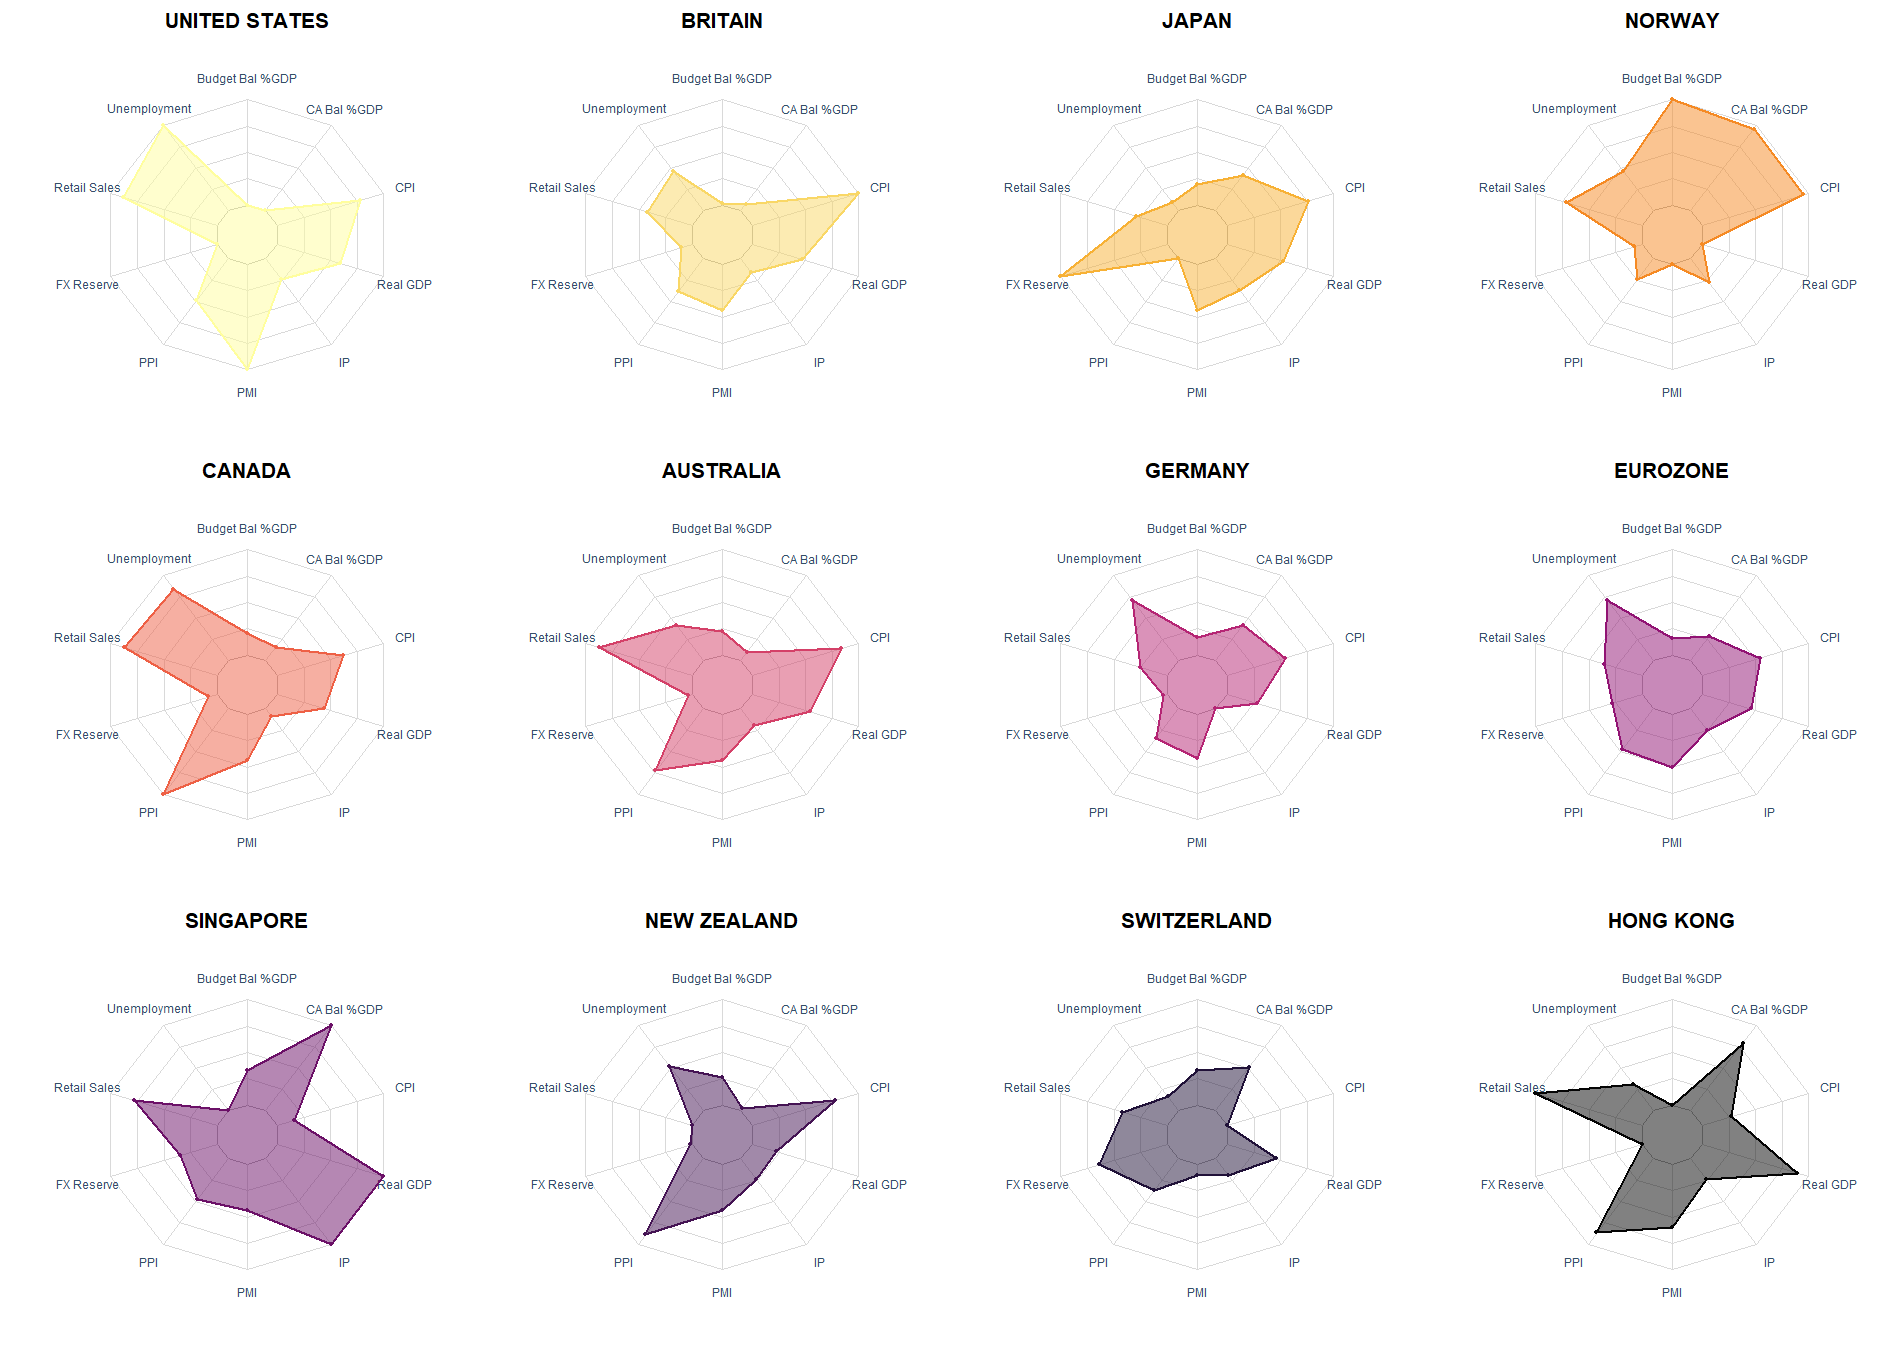
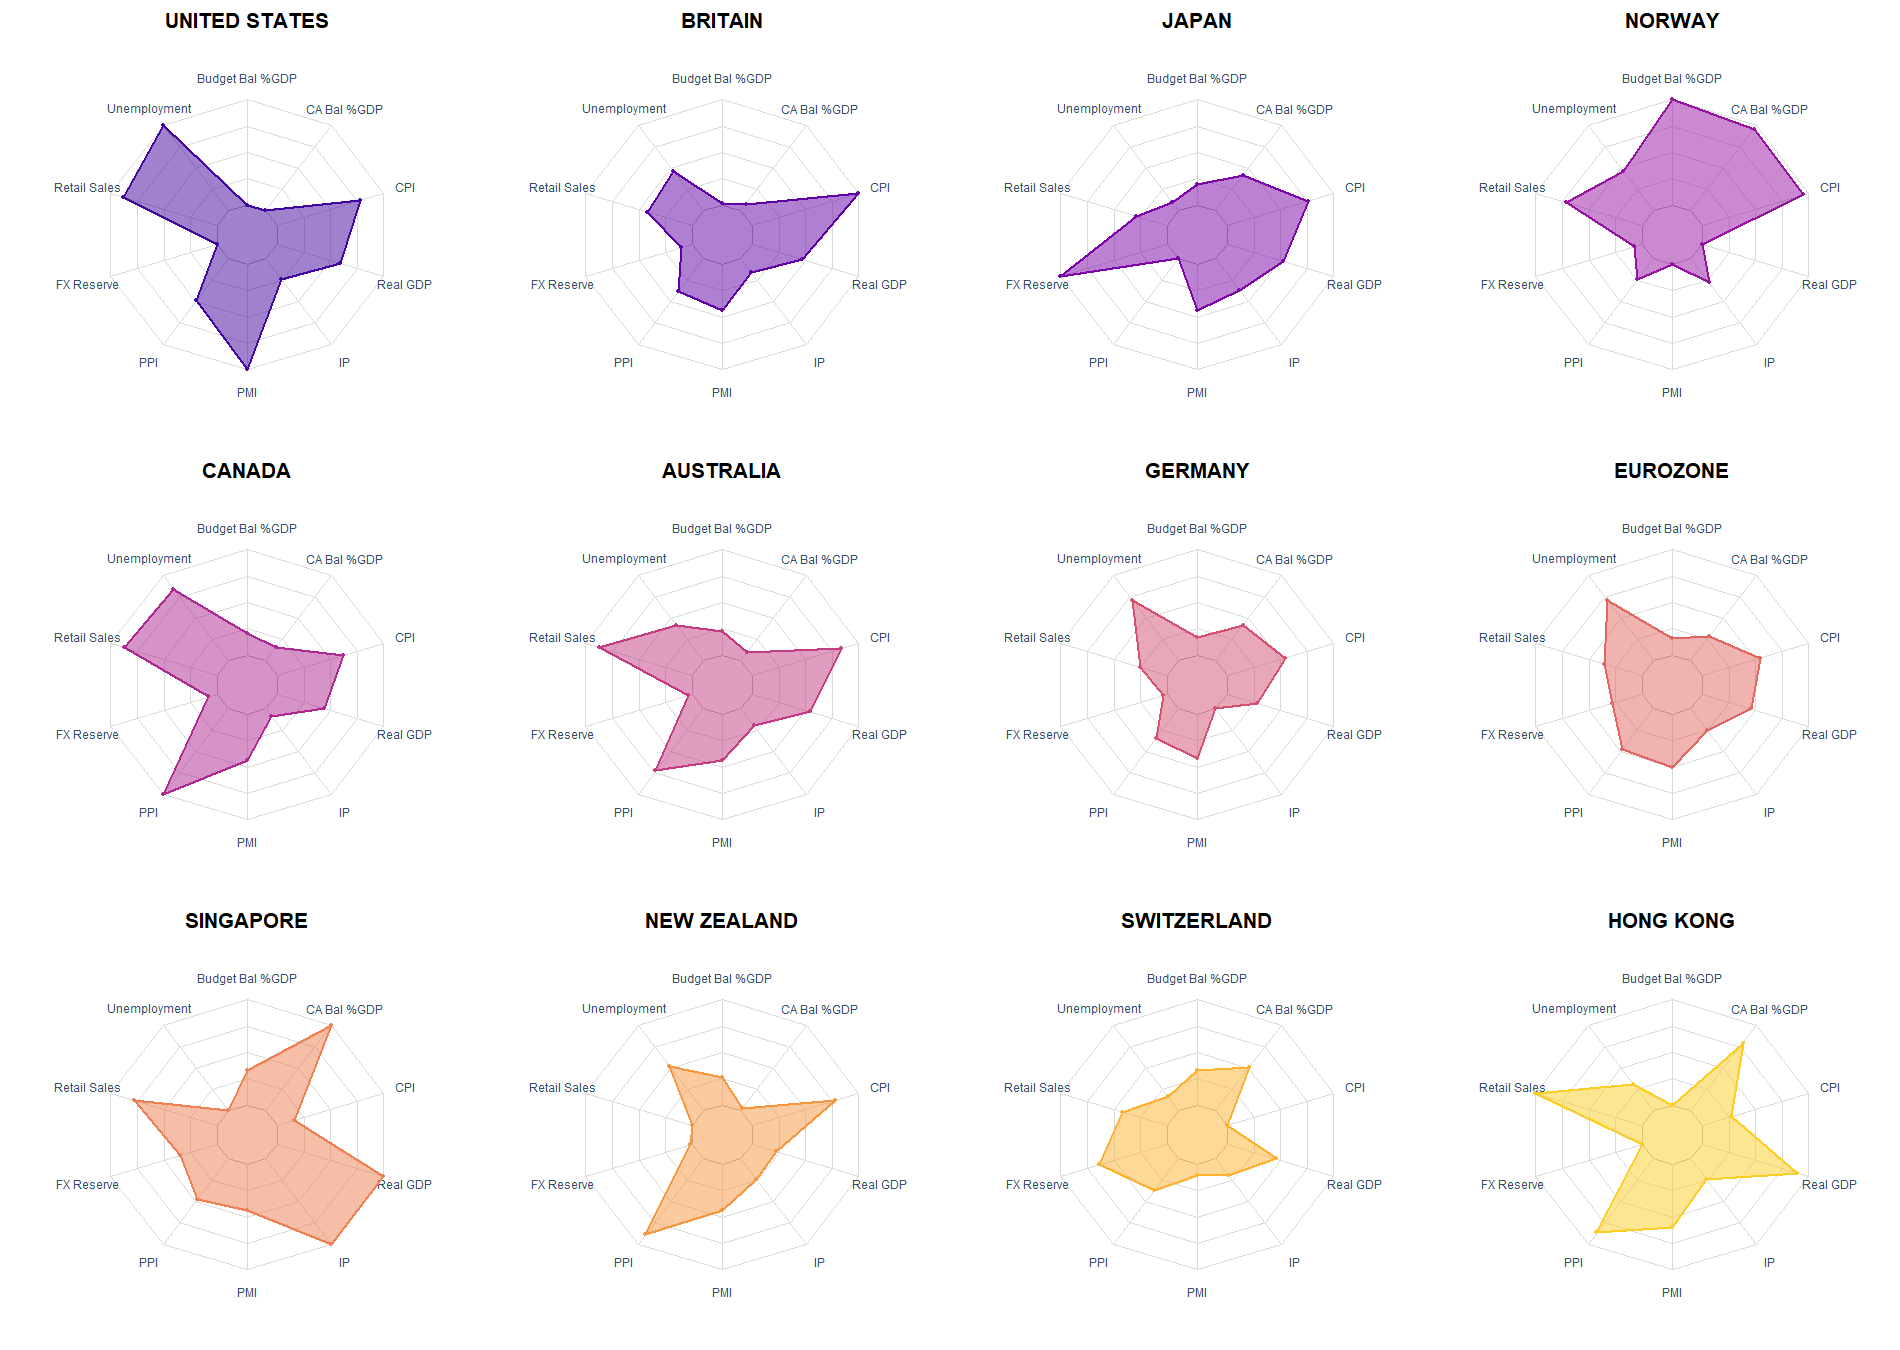
update eco screener page

diff --git a/R_Union/Codex_R/output/eco_report_20220614.html b/R_Union/Codex_R/output/eco_report_20220614.html
@@ -1,0 +1,1 @@
+<!doctype html><html><head><meta charset='utf-8'><title>ECO Screener Report</title><style>body{font-family:Segoe UI,Arial,sans-serif;background:#f6f8fb;color:#1f2933;margin:0}.wrap{max-width:1320px;margin:0 auto;padding:28px}h1{margin:0 0 6px;font-size:30px}.sub{color:#607080;margin-bottom:18px}.note{background:#fff7e6;border:1px solid #f0c36d;border-radius:8px;padding:10px 12px;margin:12px 0;color:#594214}.cards{display:grid;grid-template-columns:repeat(4,minmax(160px,1fr));gap:12px;margin:18px 0}.card{background:white;border:1px solid #dce3ec;border-radius:8px;padding:14px;box-shadow:0 8px 22px rgba(31,41,51,.05)}.label{font-size:12px;color:#607080;text-transform:uppercase}.value{font-size:22px;font-weight:750;margin-top:4px}.panel{background:white;border:1px solid #dce3ec;border-radius:8px;padding:14px;margin:14px 0;box-shadow:0 8px 22px rgba(31,41,51,.04)}img{max-width:100%;height:auto;border-radius:6px}table{border-collapse:collapse;width:100%;font-size:13px;background:white}th,td{border:1px solid #dce3ec;padding:7px;text-align:right}th:first-child,td:first-child{text-align:left}th{background:#edf2f7;position:sticky;top:0}.scroll{overflow:auto;max-height:620px;border:1px solid #dce3ec;border-radius:8px}</style></head><body><div class='wrap'><h1>ECO Screener Report</h1><div class='sub'>数据来自 C:/Users/PC/Desktop/R_git/R_Union/WIDE_ALLX，日期：2022-06-14</div><div class='cards'><div class='card'><div class='label'>Selected Date</div><div class='value'>2022-06-14</div></div><div class='card'><div class='label'>Top Score</div><div class='value'>SINGAPORE</div></div><div class='card'><div class='label'>Lowest Score</div><div class='value'>HONG KONG</div></div><div class='card'><div class='label'>Countries</div><div class='value'>12</div></div></div><div class='note'>Radar 图为了让每个国家形状完整，缺失指标用该指标的中位水平补齐；表格里仍然保留原始 NA。</div><h2>Scoreboard Heatmap</h2><div class='panel'><img src='eco_heatmap_20220614.png'></div><h2>Indicator Bars</h2><div class='panel'><img src='eco_bars_20220614.png'></div><h2>All Countries Radar</h2><div class='panel'><img src='eco_radar_20220614.png'></div><h2>Score Table</h2><div class='scroll'><table><thead><tr><th>Country</th><th>Budget Bal %GDP</th><th>CA Bal %GDP</th><th>CPI</th><th>Real GDP</th><th>IP</th><th>PMI</th><th>PPI</th><th>FX Reserve</th><th>Retail Sales</th><th>Unemployment</th><th>Total_Score</th></tr></thead><tbody><tr><td>SINGAPORE</td><td> -2.00</td><td>18.51</td><td>5.6</td><td> 4.300</td><td>11.10</td><td>NA</td><td>NA</td><td> 345219.10</td><td>14.10</td><td>2.3</td><td>0.5389928</td></tr><tr><td>EUROZONE</td><td> -4.07</td><td> 2.09</td><td>8.1</td><td> 5.600</td><td> 3.10</td><td>NA</td><td> 0.50</td><td> 329614.00</td><td> 1.80</td><td>6.8</td><td>0.4909376</td></tr><tr><td>SWITZERLAND</td><td> -0.31</td><td> 7.18</td><td>2.9</td><td> 5.400</td><td> 7.10</td><td>59.80</td><td> 4.40</td><td> 925451.42</td><td>-2.10</td><td>2.2</td><td>0.4836323</td></tr><tr><td>NORWAY</td><td>  8.86</td><td>19.94</td><td>5.7</td><td> 2.700</td><td> 2.80</td><td>55.65</td><td>64.70</td><td>  72592.70</td><td>-9.30</td><td>3.8</td><td>0.4822867</td></tr><tr><td>CANADA</td><td>-12.32</td><td> 0.17</td><td>7.7</td><td> 4.604</td><td> 6.37</td><td>NA</td><td>15.59</td><td>  80218.00</td><td>15.60</td><td>5.2</td><td>0.4791749</td></tr><tr><td>UNITED STATES</td><td> -6.89</td><td>-3.85</td><td>8.6</td><td> 4.000</td><td> 3.81</td><td>NA</td><td> 0.90</td><td>    155.26</td><td> 9.00</td><td>7.1</td><td>0.4642973</td></tr><tr><td>GERMANY</td><td> -3.20</td><td> 6.55</td><td>6.9</td><td> 3.700</td><td>-1.60</td><td>NA</td><td>31.10</td><td>  37474.00</td><td>-0.40</td><td>5.0</td><td>0.4258941</td></tr><tr><td>AUSTRALIA</td><td> -3.98</td><td> 1.68</td><td>5.1</td><td> 3.600</td><td>-1.30</td><td>NA</td><td> 2.50</td><td>  35095.00</td><td>10.00</td><td>3.9</td><td>0.3608622</td></tr><tr><td>BRITAIN</td><td> -5.18</td><td>-1.96</td><td>9.1</td><td>11.400</td><td>-3.50</td><td>NA</td><td>-1.30</td><td> 112609.00</td><td>-6.40</td><td>3.7</td><td>0.3587729</td></tr><tr><td>JAPAN</td><td> -6.15</td><td> 3.63</td><td>2.5</td><td> 0.900</td><td>-2.70</td><td>NA</td><td>-5.50</td><td>1204539.00</td><td> 3.70</td><td>2.6</td><td>0.3318023</td></tr><tr><td>NEW ZEALAND</td><td> -3.47</td><td>-6.60</td><td>6.9</td><td> 0.500</td><td>NA</td><td>NA</td><td> 8.75</td><td>  11076.00</td><td>-3.05</td><td>3.3</td><td>0.3050633</td></tr><tr><td>HONG KONG</td><td>  0.01</td><td>12.14</td><td>1.2</td><td>-4.000</td><td>-1.30</td><td>NA</td><td> 2.30</td><td>    465.00</td><td>-1.60</td><td>5.1</td><td>0.2951384</td></tr></tbody></table></div></div></body></html>

diff --git a/R_Union/Codex_R/output/eco_report_20220629.html b/R_Union/Codex_R/output/eco_report_20220629.html
@@ -1,0 +1,1 @@
+<!doctype html><html><head><meta charset='utf-8'><title>ECO Screener Report</title><style>body{font-family:Segoe UI,Arial,sans-serif;background:#f6f8fb;color:#1f2933;margin:0}.wrap{max-width:1320px;margin:0 auto;padding:28px}h1{margin:0 0 6px;font-size:30px}.sub{color:#607080;margin-bottom:18px}.note{background:#fff7e6;border:1px solid #f0c36d;border-radius:8px;padding:10px 12px;margin:12px 0;color:#594214}.cards{display:grid;grid-template-columns:repeat(4,minmax(160px,1fr));gap:12px;margin:18px 0}.card{background:white;border:1px solid #dce3ec;border-radius:8px;padding:14px;box-shadow:0 8px 22px rgba(31,41,51,.05)}.label{font-size:12px;color:#607080;text-transform:uppercase}.value{font-size:22px;font-weight:750;margin-top:4px}.panel{background:white;border:1px solid #dce3ec;border-radius:8px;padding:14px;margin:14px 0;box-shadow:0 8px 22px rgba(31,41,51,.04)}img{max-width:100%;height:auto;border-radius:6px}table{border-collapse:collapse;width:100%;font-size:13px;background:white}th,td{border:1px solid #dce3ec;padding:7px;text-align:right}th:first-child,td:first-child{text-align:left}th{background:#edf2f7;position:sticky;top:0}.scroll{overflow:auto;max-height:620px;border:1px solid #dce3ec;border-radius:8px}</style></head><body><div class='wrap'><h1>ECO Screener Report</h1><div class='sub'>数据来自 C:/Users/PC/Desktop/R_git/R_Union/WIDE_ALLX，日期：2022-06-29</div><div class='cards'><div class='card'><div class='label'>Selected Date</div><div class='value'>2022-06-29</div></div><div class='card'><div class='label'>Top Score</div><div class='value'>SINGAPORE</div></div><div class='card'><div class='label'>Lowest Score</div><div class='value'>HONG KONG</div></div><div class='card'><div class='label'>Countries</div><div class='value'>12</div></div></div><div class='note'>Radar 图为了让每个国家形状完整，缺失指标用该指标的中位水平补齐；表格里仍然保留原始 NA。</div><h2>Scoreboard Heatmap</h2><div class='panel'><img src='eco_heatmap_20220629.png'></div><h2>Indicator Bars</h2><div class='panel'><img src='eco_bars_20220629.png'></div><h2>All Countries Radar</h2><div class='panel'><img src='eco_radar_20220629.png'></div><h2>Score Table</h2><div class='scroll'><table><thead><tr><th>Country</th><th>Budget Bal %GDP</th><th>CA Bal %GDP</th><th>CPI</th><th>Real GDP</th><th>IP</th><th>PMI</th><th>PPI</th><th>FX Reserve</th><th>Retail Sales</th><th>Unemployment</th><th>Total_Score</th></tr></thead><tbody><tr><td>SINGAPORE</td><td> -2.00</td><td>18.51</td><td>5.6</td><td> 4.300</td><td>11.10</td><td>NA</td><td>NA</td><td> 345219.10</td><td>14.10</td><td>2.3</td><td>0.5389928</td></tr><tr><td>EUROZONE</td><td> -4.07</td><td> 2.09</td><td>8.1</td><td> 5.600</td><td> 3.10</td><td>NA</td><td> 0.50</td><td> 329614.00</td><td> 1.80</td><td>6.8</td><td>0.4909376</td></tr><tr><td>SWITZERLAND</td><td> -0.31</td><td> 7.18</td><td>2.9</td><td> 5.400</td><td> 7.10</td><td>59.80</td><td> 4.40</td><td> 925451.42</td><td>-2.10</td><td>2.2</td><td>0.4836323</td></tr><tr><td>NORWAY</td><td>  8.86</td><td>19.94</td><td>5.7</td><td> 2.700</td><td> 2.80</td><td>55.65</td><td>64.70</td><td>  72592.70</td><td>-9.30</td><td>3.8</td><td>0.4822867</td></tr><tr><td>CANADA</td><td>-12.32</td><td> 0.17</td><td>7.7</td><td> 4.604</td><td> 6.37</td><td>NA</td><td>15.59</td><td>  80218.00</td><td>15.60</td><td>5.2</td><td>0.4791749</td></tr><tr><td>UNITED STATES</td><td> -6.89</td><td>-3.85</td><td>8.6</td><td> 4.000</td><td> 3.81</td><td>NA</td><td> 0.90</td><td>    155.26</td><td> 9.00</td><td>7.1</td><td>0.4642973</td></tr><tr><td>GERMANY</td><td> -3.20</td><td> 6.55</td><td>6.9</td><td> 3.700</td><td>-1.60</td><td>NA</td><td>31.10</td><td>  37474.00</td><td>-0.40</td><td>5.0</td><td>0.4258941</td></tr><tr><td>AUSTRALIA</td><td> -3.98</td><td> 1.68</td><td>5.1</td><td> 3.600</td><td>-1.30</td><td>NA</td><td> 2.50</td><td>  35095.00</td><td>10.00</td><td>3.9</td><td>0.3608622</td></tr><tr><td>BRITAIN</td><td> -5.18</td><td>-1.96</td><td>9.1</td><td>11.400</td><td>-3.50</td><td>NA</td><td>-1.30</td><td> 112609.00</td><td>-6.40</td><td>3.7</td><td>0.3587729</td></tr><tr><td>JAPAN</td><td> -6.15</td><td> 3.63</td><td>2.5</td><td> 0.900</td><td>-2.70</td><td>NA</td><td>-5.50</td><td>1204539.00</td><td> 3.70</td><td>2.6</td><td>0.3318023</td></tr><tr><td>NEW ZEALAND</td><td> -3.47</td><td>-6.60</td><td>6.9</td><td> 0.500</td><td>NA</td><td>NA</td><td> 8.75</td><td>  11076.00</td><td>-3.05</td><td>3.3</td><td>0.3050633</td></tr><tr><td>HONG KONG</td><td>  0.01</td><td>12.14</td><td>1.2</td><td>-4.000</td><td>-1.30</td><td>NA</td><td> 2.30</td><td>    465.00</td><td>-1.60</td><td>5.1</td><td>0.2951384</td></tr></tbody></table></div></div></body></html>

diff --git a/R_Union/Codex_R/output/eco_report_20221115.html b/R_Union/Codex_R/output/eco_report_20221115.html
@@ -1,0 +1,1 @@
+<!doctype html><html><head><meta charset='utf-8'><title>ECO Screener Report</title><style>body{font-family:Segoe UI,Arial,sans-serif;background:#f6f8fb;color:#1f2933;margin:0}.wrap{max-width:1320px;margin:0 auto;padding:28px}h1{margin:0 0 6px;font-size:30px}.sub{color:#607080;margin-bottom:18px}.note{background:#fff7e6;border:1px solid #f0c36d;border-radius:8px;padding:10px 12px;margin:12px 0;color:#594214}.cards{display:grid;grid-template-columns:repeat(4,minmax(160px,1fr));gap:12px;margin:18px 0}.card{background:white;border:1px solid #dce3ec;border-radius:8px;padding:14px;box-shadow:0 8px 22px rgba(31,41,51,.05)}.label{font-size:12px;color:#607080;text-transform:uppercase}.value{font-size:22px;font-weight:750;margin-top:4px}.panel{background:white;border:1px solid #dce3ec;border-radius:8px;padding:14px;margin:14px 0;box-shadow:0 8px 22px rgba(31,41,51,.04)}img{max-width:100%;height:auto;border-radius:6px}table{border-collapse:collapse;width:100%;font-size:13px;background:white}th,td{border:1px solid #dce3ec;padding:7px;text-align:right}th:first-child,td:first-child{text-align:left}th{background:#edf2f7;position:sticky;top:0}.scroll{overflow:auto;max-height:620px;border:1px solid #dce3ec;border-radius:8px}</style></head><body><div class='wrap'><h1>ECO Screener Report</h1><div class='sub'>数据来自 C:/Users/PC/Desktop/R_git/R_Union/WIDE_ALLX，日期：2022-11-15</div><div class='cards'><div class='card'><div class='label'>Selected Date</div><div class='value'>2022-11-15</div></div><div class='card'><div class='label'>Top Score</div><div class='value'>NORWAY</div></div><div class='card'><div class='label'>Lowest Score</div><div class='value'>HONG KONG</div></div><div class='card'><div class='label'>Countries</div><div class='value'>12</div></div></div><div class='note'>Radar 图为了让每个国家形状完整，缺失指标用该指标的中位水平补齐；表格里仍然保留原始 NA。</div><h2>Scoreboard Heatmap</h2><div class='panel'><img src='eco_heatmap_20221115.png'></div><h2>Indicator Bars</h2><div class='panel'><img src='eco_bars_20221115.png'></div><h2>All Countries Radar</h2><div class='panel'><img src='eco_radar_20221115.png'></div><h2>Score Table</h2><div class='scroll'><table><thead><tr><th>Country</th><th>Budget Bal %GDP</th><th>CA Bal %GDP</th><th>CPI</th><th>Real GDP</th><th>IP</th><th>PMI</th><th>PPI</th><th>FX Reserve</th><th>Retail Sales</th><th>Unemployment</th><th>Total_Score</th></tr></thead><tbody><tr><td>NORWAY</td><td>  8.86</td><td>29.34</td><td> 7.5</td><td> 3.200</td><td> 0.20</td><td>52.45</td><td>19.80</td><td>  70638.500</td><td>-6.00</td><td>3.1</td><td>0.5265009</td></tr><tr><td>SWITZERLAND</td><td> -0.31</td><td> 8.22</td><td> 3.0</td><td> 1.800</td><td> 6.00</td><td>55.40</td><td> 3.45</td><td> 816883.140</td><td>-2.40</td><td>2.0</td><td>0.4867219</td></tr><tr><td>UNITED STATES</td><td> -5.24</td><td>-3.76</td><td> 7.7</td><td> 2.300</td><td> 3.08</td><td>NA</td><td> 0.30</td><td>     67.838</td><td> 8.10</td><td>6.7</td><td>0.4632280</td></tr><tr><td>EUROZONE</td><td> -3.05</td><td> 0.15</td><td>10.6</td><td> 2.900</td><td> 3.30</td><td>46.40</td><td>-2.00</td><td> 325199.000</td><td>-2.60</td><td>6.7</td><td>0.4618169</td></tr><tr><td>SINGAPORE</td><td> -0.82</td><td>18.41</td><td> 6.8</td><td> 4.500</td><td>-0.60</td><td>NA</td><td>NA</td><td> 282284.400</td><td> 7.50</td><td>2.1</td><td>0.4371782</td></tr><tr><td>CANADA</td><td>-12.32</td><td> 0.03</td><td> 6.9</td><td> 4.248</td><td> 1.82</td><td>NA</td><td> 9.86</td><td>  77353.000</td><td> 6.10</td><td>5.1</td><td>0.4194960</td></tr><tr><td>AUSTRALIA</td><td> -3.98</td><td> 0.30</td><td> 7.3</td><td> 6.100</td><td>-1.30</td><td>NA</td><td> 2.50</td><td>  36113.000</td><td>12.50</td><td>3.4</td><td>0.4148951</td></tr><tr><td>GERMANY</td><td> -3.20</td><td> 4.40</td><td> 8.8</td><td> 1.700</td><td>-0.70</td><td>45.10</td><td>31.70</td><td>  36800.000</td><td>-5.10</td><td>5.5</td><td>0.4086696</td></tr><tr><td>JAPAN</td><td> -6.15</td><td> 2.33</td><td> 3.7</td><td> 1.300</td><td> 3.10</td><td>NA</td><td>-5.50</td><td>1078348.000</td><td> 4.40</td><td>2.6</td><td>0.4022614</td></tr><tr><td>NEW ZEALAND</td><td> -3.47</td><td>-8.50</td><td> 7.2</td><td> 8.100</td><td>NA</td><td>NA</td><td> 8.38</td><td>   6716.000</td><td> 1.82</td><td>3.3</td><td>0.3809557</td></tr><tr><td>BRITAIN</td><td> -3.60</td><td>-2.31</td><td>11.1</td><td> 3.100</td><td>-2.40</td><td>NA</td><td>-1.30</td><td> 101927.000</td><td>-6.50</td><td>3.8</td><td>0.3188791</td></tr><tr><td>HONG KONG</td><td> -5.55</td><td>11.38</td><td> 1.8</td><td>-4.900</td><td>-0.60</td><td>49.30</td><td> 0.40</td><td>    417.200</td><td> 4.00</td><td>3.8</td><td>0.2561600</td></tr></tbody></table></div></div></body></html>